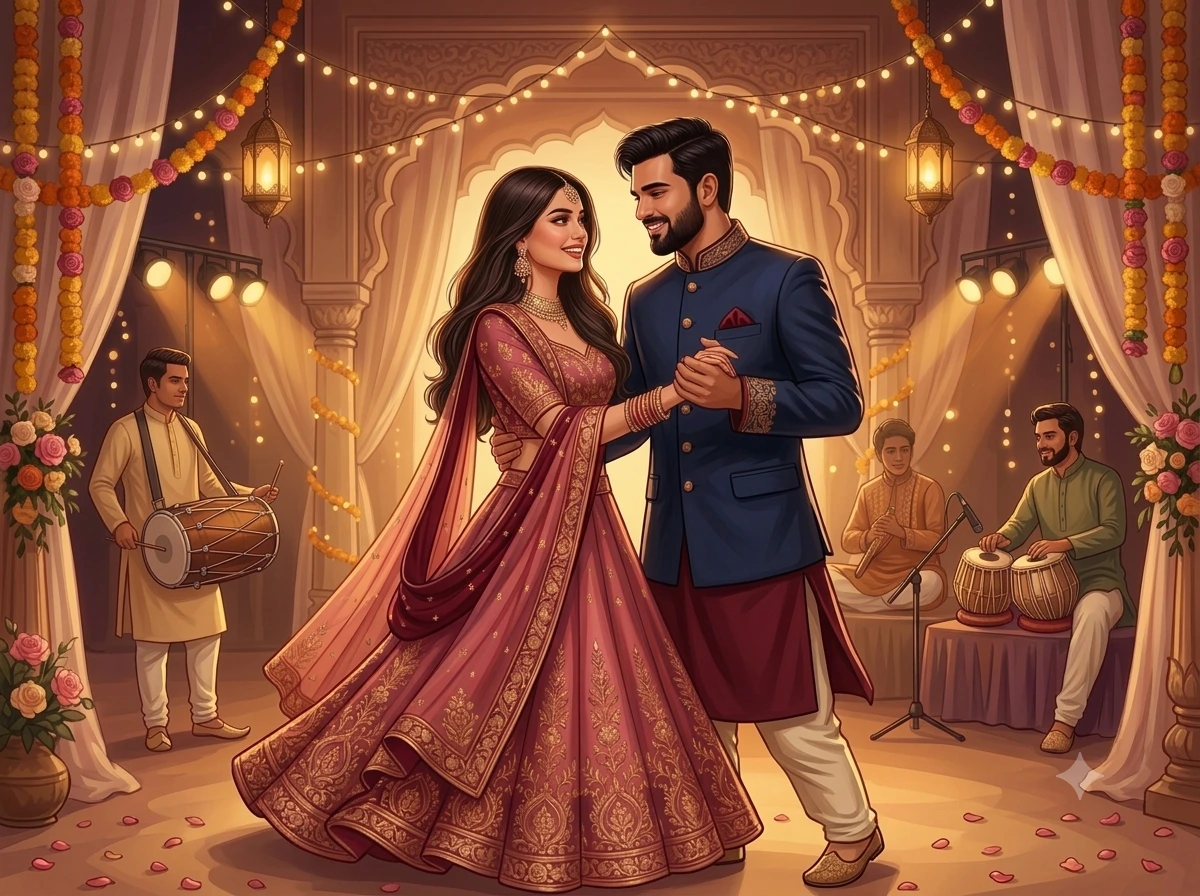
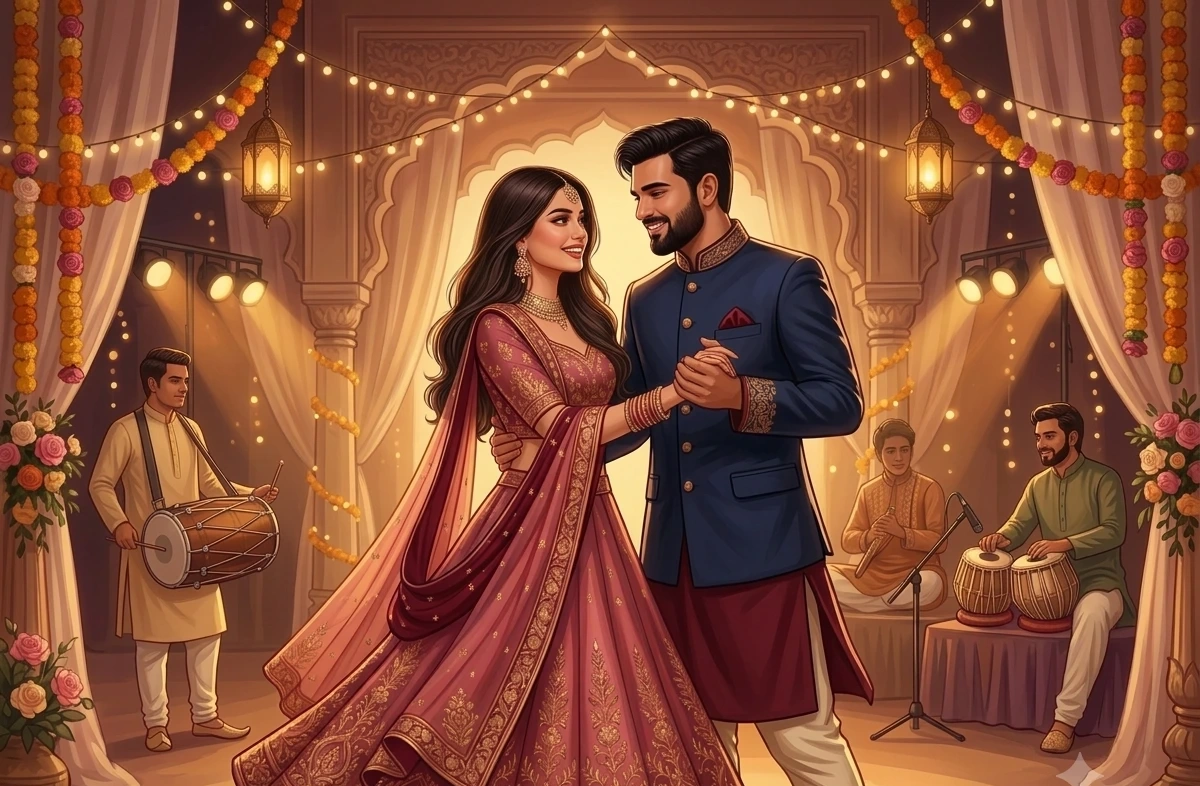
Enhance responsive layout for Ladies Sangeet, Vidai badges, and Shining Stars (बाल मनुहार)

diff --git a/src/app/globals.css b/src/app/globals.css
@@ -1455,15 +1455,47 @@ html.wedding-gate-opening .opening-gate__edge-shimmer {
 .event-card__content--interaction-locked .event-card__details-content {
   visibility:hidden;
   padding:clamp(1.25rem,5vw,2rem)}
-.event-card__date {
-  color: var(--event-accent);
-  letter-spacing: 0.1em;
-  text-transform: uppercase;
+.event-card__date-badge {
+  display: flex;
+  flex-wrap: wrap;
+  align-items: center;
+  gap: 0.35rem 0.5rem;
   margin-bottom: 0.65rem;
-  font-size: clamp(0.72rem, 2.8vw, 0.82rem);
-  font-weight: 700;
   line-height: 1.45;
-  display: inline-block;
+}
+
+.event-card__day-date {
+  font-family: var(--font-body);
+  font-size: clamp(0.72rem, 2.7vw, 0.82rem);
+  font-weight: 700;
+  letter-spacing: 0.05em;
+  color: var(--event-accent);
+}
+
+.event-card__day-date span[lang="hi"] {
+  font-family: var(--font-devanagari);
+  font-weight: 600;
+}
+
+.event-card__time-separator {
+  color: var(--event-accent);
+  font-weight: 900;
+  font-size: 0.95rem;
+  user-select: none;
+}
+
+.event-card__time-tag {
+  font-family: var(--font-body);
+  font-size: clamp(0.7rem, 2.5vw, 0.78rem);
+  font-weight: 700;
+  color: #fff;
+  background: var(--event-accent);
+  padding: 0.18rem 0.6rem;
+  border-radius: 999px;
+  box-shadow: 0 1px 3px rgba(0, 0, 0, 0.12);
+  display: inline-flex;
+  align-items: center;
+  white-space: nowrap;
 }
 .event-card__content h3 {
   margin-bottom:.85rem;
@@ -1571,13 +1603,14 @@ html.wedding-gate-opening .opening-gate__edge-shimmer {
   flex:none;
   width:100%;
   position:relative}
-.event-card__date {
-  white-space:normal;
-  overflow-wrap:anywhere;
-  line-height:1.55;
-  display:block;
-  position:static;
-  transform:none}
+.event-card__date-badge, .event-card__day-date {
+  white-space: normal;
+  overflow-wrap: anywhere;
+  line-height: 1.45;
+  display: flex;
+  position: static;
+  transform: none;
+}
 }
 @media (prefers-reduced-motion:reduce) {
   .event-card__actions a {
@@ -2974,31 +3007,44 @@ html.wedding-gate-opening .opening-gate__edge-shimmer {
 }
 
 .host-card__stars-group {
-  margin-top: 1rem;
-  padding: 1rem 1.25rem;
-  background: linear-gradient(135deg, rgba(242, 192, 110, 0.15) 0%, rgba(184, 117, 123, 0.08) 100%);
-  border: 1px dashed rgba(180, 147, 76, 0.55);
+  margin-top: 1.15rem;
+  padding: 1.15rem 1.25rem;
+  background: linear-gradient(135deg, rgba(242, 192, 110, 0.18) 0%, rgba(184, 117, 123, 0.09) 100%);
+  border: 1px dashed rgba(180, 147, 76, 0.6);
   border-radius: 0.75rem;
   text-align: center;
 }
 
 .host-card__stars-label {
   font-family: var(--font-body);
-  font-size: 0.84rem;
+  font-size: clamp(0.78rem, 2.8vw, 0.86rem);
   font-weight: 700;
-  letter-spacing: 0.06em;
+  letter-spacing: 0.05em;
   color: var(--maroon);
-  margin-bottom: 0.6rem;
+  margin-bottom: 0.65rem;
   display: flex;
+  flex-wrap: wrap;
   align-items: center;
   justify-content: center;
-  gap: 0.4rem;
+  gap: 0.35rem;
+  line-height: 1.4;
 }
 
 .host-card__stars-label span[lang="hi"] {
   font-family: var(--font-devanagari);
-  font-size: 1rem;
+  font-size: clamp(0.95rem, 3.4vw, 1.08rem);
   font-weight: 600;
+  color: #741f32;
+}
+
+.host-card__stars-icon {
+  color: #b4934c;
+  font-size: 0.8rem;
+}
+
+.host-card__stars-sep {
+  color: #b4934c;
+  font-weight: 900;
 }
 
 .host-card__stars-names {
@@ -3006,17 +3052,19 @@ html.wedding-gate-opening .opening-gate__edge-shimmer {
   flex-wrap: wrap;
   align-items: center;
   justify-content: center;
-  gap: 0.35rem 0.2rem;
-  line-height: 1.7;
+  gap: 0.35rem 0.25rem;
+  line-height: 1.6;
 }
 
-.host-card__stars-names .host-card__name-text {
+.host-card__name-text--star {
   font-family: var(--font-display);
-  font-size: 1.08rem;
+  font-size: clamp(1rem, 3.8vw, 1.15rem);
   font-weight: 600;
   color: #5c1825;
-  background: rgba(255, 255, 255, 0.95);
-  border-color: rgba(212, 162, 80, 0.4);
+  background: #ffffff;
+  border: 1px solid rgba(212, 162, 80, 0.45);
+  box-shadow: 0 1px 4px rgba(180, 147, 76, 0.12);
+  padding: 0.22rem 0.6rem;
 }
 
 .host-card__wishes {
@@ -3046,27 +3094,71 @@ html.wedding-gate-opening .opening-gate__edge-shimmer {
 }
 
 @media (max-width: 640px) {
+  .event-card__date-badge {
+    gap: 0.25rem 0.4rem;
+  }
+
+  .event-card__day-date {
+    font-size: 0.76rem;
+  }
+
+  .event-card__time-tag {
+    font-size: 0.72rem;
+    padding: 0.15rem 0.5rem;
+  }
+
   .host-card__rsvp-group,
   .host-card__stars-group {
-    padding: 0.9rem 0.75rem;
+    padding: 0.95rem 0.75rem;
+    margin-top: 1rem;
   }
+
+  .host-card__stars-label {
+    flex-direction: column;
+    gap: 0.15rem;
+  }
+
+  .host-card__stars-sep {
+    display: none;
+  }
+
   .host-card__rsvp-names,
   .host-card__stars-names {
-    gap: 0.25rem 0.15rem;
+    gap: 0.3rem 0.2rem;
   }
+
   .host-card__name-text {
     font-size: 0.88rem;
-    padding: 0.2rem 0.4rem;
+    padding: 0.2rem 0.45rem;
   }
+
+  .host-card__name-text--star {
+    font-size: 0.98rem;
+    padding: 0.2rem 0.55rem;
+  }
+
   .host-card__separator {
-    padding: 0 0.2rem;
-    font-size: 0.95rem;
+    padding: 0 0.15rem;
+    font-size: 0.9rem;
   }
+
   .host-card__wishes-en {
     font-size: 1.1rem;
   }
+
   .host-card__wishes-hi {
     font-size: 0.95rem;
+  }
+}
+
+@media (max-width: 380px) {
+  .host-card__name-item {
+    white-space: normal;
+  }
+
+  .host-card__name-text,
+  .host-card__name-text--star {
+    white-space: nowrap;
   }
 }
 

diff --git a/src/components/VenueAndRsvpSection.tsx b/src/components/VenueAndRsvpSection.tsx
@@ -203,12 +203,18 @@ export default function VenueAndRsvpSection({ wedding }: { wedding: WeddingData 
             {shiningStars && shiningStars.length > 0 && (
               <div className="host-card__stars-group">
                 <p className="host-card__stars-label">
-                  <span lang="hi">बाल मनुहार</span> · Special Invitation From Our Shining Stars
+                  <span className="host-card__stars-icon" aria-hidden="true">✦</span>
+                  <span lang="hi">बाल मनुहार</span>
+                  <span className="host-card__stars-sep">·</span>
+                  <span>Special Invitation From Our Shining Stars</span>
+                  <span className="host-card__stars-icon" aria-hidden="true">✦</span>
                 </p>
                 <div className="host-card__stars-names">
                   {shiningStars.map((name, idx) => (
                     <span key={name} className="host-card__name-item">
-                      <span className="host-card__name-text">{name}</span>
+                      <span className="host-card__name-text host-card__name-text--star">
+                        {name}
+                      </span>
                       {idx < shiningStars.length - 1 && (
                         <span className="host-card__separator" aria-hidden="true">
                           ·

diff --git a/src/components/EventsSection.tsx b/src/components/EventsSection.tsx
@@ -155,10 +155,15 @@ function EventCard({ event, index }: { event: WeddingEvent; index: number }) {
 
       <div className="event-card__content">
         <div className="event-card__details-content">
-          <p className="event-card__date">
-            {event.dayLabel} (<span lang="hi">{event.dayLabelHindi}</span>) · {event.date} ·{" "}
-            {event.time}
-          </p>
+          <div className="event-card__date-badge">
+            <span className="event-card__day-date">
+              {event.dayLabel} (<span lang="hi">{event.dayLabelHindi}</span>) · {event.date}
+            </span>
+            <span className="event-card__time-separator" aria-hidden="true">
+              ·
+            </span>
+            <span className="event-card__time-tag">{event.time}</span>
+          </div>
 
           <h3 id={`event-${event.id}-title`}>{event.name}</h3>
           <p className="event-card__hindi-title" lang="hi">
